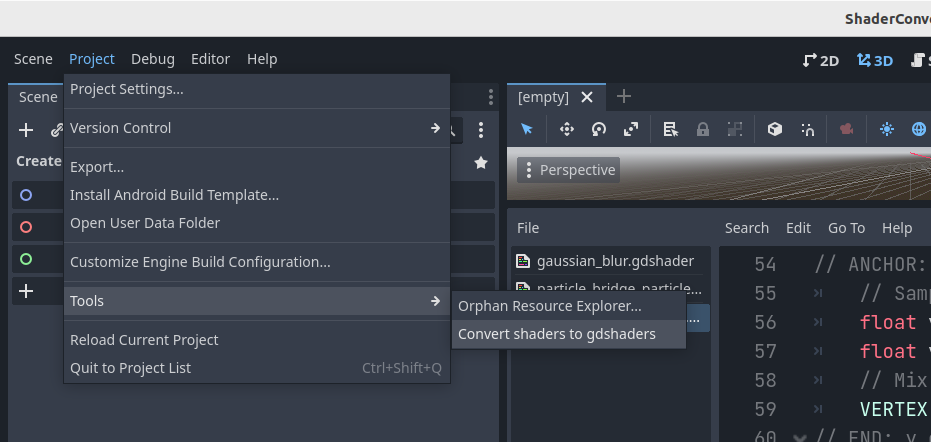
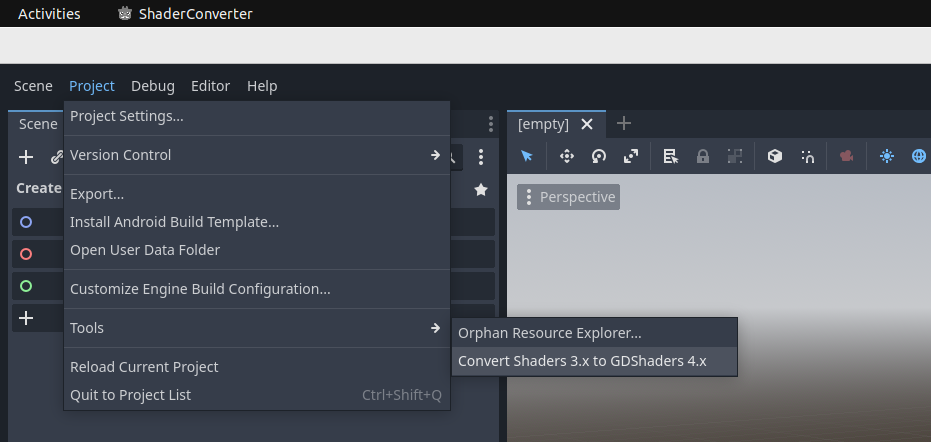
V 1.0.9 updated description

diff --git a/README.md b/README.md
@@ -1,11 +1,12 @@
 # ShaderConverter
-Convert shaders to gdshaders from godot 3.+ to godot 4.+
+Convert Shaders 3.x to GDShaders 4.x
 
 ### How to
 
-1. Paste all *.shader (Godot 3.+) files to your project.
-2. Go to Menu -> Project -> Tools -> Convert shaders to gdshaders
-3. Use your shaders as needed
+1. Enable plugin
+2. Paste all *.shader (Godot 3.x) files to your project.
+3. Go to Menu -> Project -> Tools -> Convert Shaders 3.x to GDShaders 4.x
+4. Use your shaders as needed
 
 Execute ShaderConverter from tools menu
 ![Locales editor](https://raw.githubusercontent.com/VP-GAMES/ShaderConverter/main/.github/images/Execute.png)
